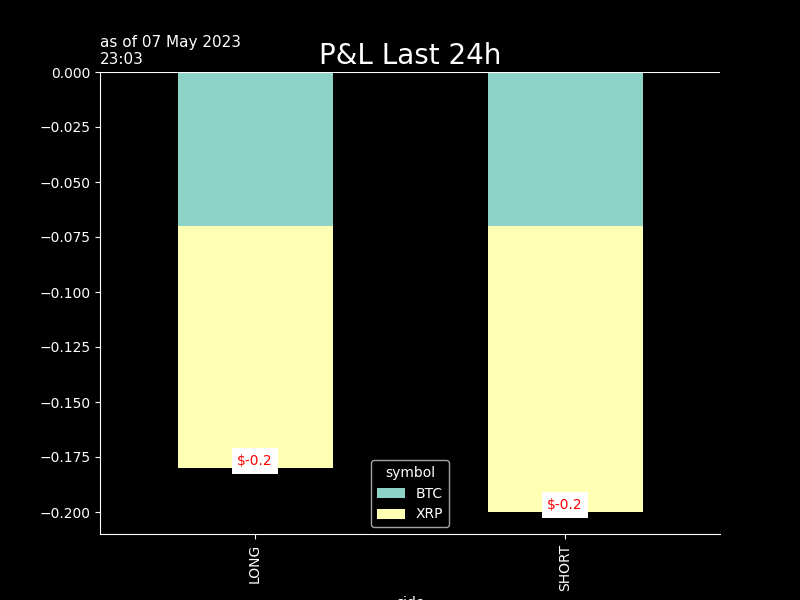
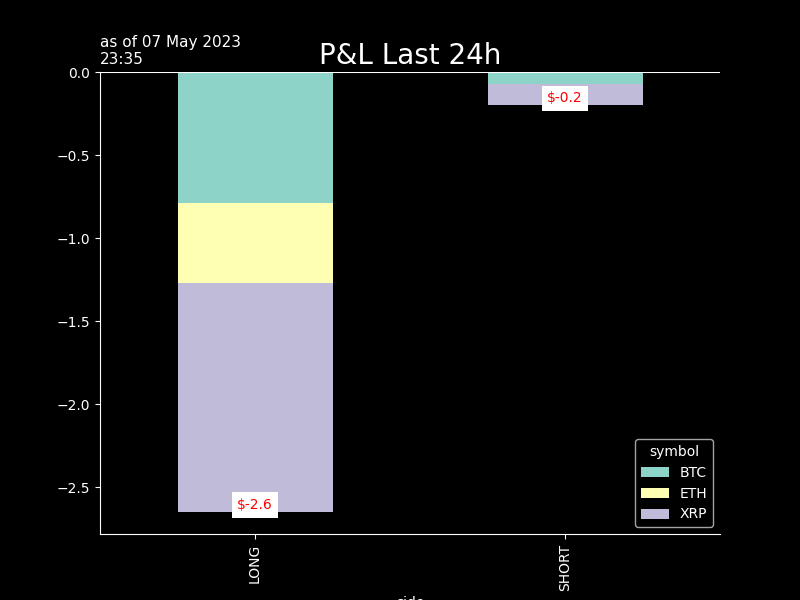
seb_commit

diff --git a/crypto/graphs/bt_trades_book.htmltrade_trades_book.html b/crypto/graphs/bt_trades_book.htmltrade_trades_book.html
@@ -37,55 +37,55 @@
   </thead>
   <tbody>
     <tr>
-      <th>BTCUSDT</th>
-      <td>28922.1000</td>
-      <td>2023-05-07 18:35:49</td>
-      <td>0.005</td>
-      <td>$144.6</td>
+      <th>ETHUSDT</th>
+      <td>1908.4200</td>
+      <td>2023-05-07 22:33:47</td>
+      <td>-0.076</td>
+      <td>$-145.0</td>
       <td>$0.03</td>
       <td>2.0</td>
-      <td>0.0</td>
-      <td>28937.25000</td>
-      <td>2023-05-07 19:33</td>
-      <td>0.1</td>
-      <td>6.0</td>
-      <td>28916.</td>
+      <td>-0.5</td>
+      <td>1909.91500</td>
+      <td>2023-05-07 23:31</td>
+      <td>-0.1</td>
+      <td>-8.0</td>
+      <td>1909.54</td>
+      <td>-0.1</td>
+      <td>-6.0</td>
+    </tr>
+    <tr>
+      <th>BTCUSDT</th>
+      <td>28777.0000</td>
+      <td>2023-05-07 22:35:13</td>
+      <td>-0.005</td>
+      <td>$-143.9</td>
+      <td>$0.03</td>
+      <td>2.0</td>
+      <td>-0.7</td>
+      <td>28782.25000</td>
+      <td>2023-05-07 23:31</td>
       <td>-0.0</td>
       <td>-2.0</td>
+      <td>28779.8</td>
+      <td>-0.0</td>
+      <td>-1.0</td>
     </tr>
     <tr>
       <th>XRPUSDT</th>
-      <td>0.4576</td>
-      <td>2023-05-07 18:35:48</td>
-      <td>316.300</td>
-      <td>$144.7</td>
+      <td>0.4536</td>
+      <td>2023-05-07 22:33:50</td>
+      <td>-316.300</td>
+      <td>$-143.5</td>
       <td>$0.03</td>
       <td>2.0</td>
-      <td>0.0</td>
-      <td>0.45775</td>
-      <td>2023-05-07 19:33</td>
-      <td>0.1</td>
-      <td>3.0</td>
-      <td>.4575</td>
-      <td>-0.0</td>
-      <td>-2.0</td>
-    </tr>
-    <tr>
-      <th>ETHUSDT</th>
-      <td>1914.7600</td>
-      <td>2023-05-07 18:35:49</td>
-      <td>0.076</td>
-      <td>$145.5</td>
-      <td>$0.03</td>
-      <td>2.0</td>
-      <td>0.0</td>
-      <td>1915.52500</td>
-      <td>2023-05-07 19:33</td>
-      <td>0.1</td>
-      <td>4.0</td>
-      <td>1914.5</td>
-      <td>-0.0</td>
-      <td>-1.0</td>
+      <td>-1.3</td>
+      <td>0.45375</td>
+      <td>2023-05-07 23:31</td>
+      <td>-0.1</td>
+      <td>-3.0</td>
+      <td>.4538</td>
+      <td>-0.1</td>
+      <td>-4.0</td>
     </tr>
   </tbody>
 </table>

diff --git a/crypto/graphs/bt_trades_pnlD_recap.htmltrade_trades_pnlD_recap.html b/crypto/graphs/bt_trades_pnlD_recap.htmltrade_trades_pnlD_recap.html
@@ -1,7 +1,7 @@
 <table border="1" class="dataframe">
   <thead>
     <tr style="text-align: right;">
-      <th>07 May 19:35</th>
+      <th>07 May 23:35</th>
       <th>realizedPnl</th>
       <th>PnLvsArrival</th>
       <th>PnLvsLast</th>
@@ -10,21 +10,21 @@
   <tbody>
     <tr>
       <th>in$</th>
-      <td>0.0</td>
-      <td>0.2</td>
-      <td>-0.1</td>
+      <td>-2.5</td>
+      <td>-0.2</td>
+      <td>-0.2</td>
     </tr>
     <tr>
-      <th>in bp 434 traded</th>
-      <td>0 bp</td>
-      <td>4 bp</td>
-      <td>-2 bp</td>
+      <th>in bp 432 traded</th>
+      <td>-57 bp</td>
+      <td>-4 bp</td>
+      <td>-4 bp</td>
     </tr>
     <tr>
-      <th>in bp 289 AUMs</th>
-      <td>0 bp</td>
-      <td>7 bp</td>
-      <td>-3 bp</td>
+      <th>in bp 287 AUMs</th>
+      <td>-86 bp</td>
+      <td>-7 bp</td>
+      <td>-6 bp</td>
     </tr>
   </tbody>
 </table>

diff --git a/crypto/graphs/bt_trades_recap.htmltrade_trades_recap.html b/crypto/graphs/bt_trades_recap.htmltrade_trades_recap.html
@@ -9,32 +9,32 @@
   <tbody>
     <tr>
       <th>as of</th>
-      <td>07May 18:35&gt;&gt;18:35</td>
+      <td>07May 22:33&gt;&gt;22:35</td>
       <td>#trades: 3</td>
     </tr>
     <tr>
       <th>trade net</th>
-      <td>+435.0</td>
-      <td>+150.2%</td>
+      <td>-432.0</td>
+      <td>-150.4%</td>
     </tr>
     <tr>
       <th>trade gross</th>
-      <td>+435.0</td>
-      <td>+150.2%</td>
+      <td>+432.0</td>
+      <td>+150.4%</td>
     </tr>
     <tr>
       <th>BUY</th>
-      <td>+435.0</td>
-      <td>+150.2%</td>
-    </tr>
-    <tr>
-      <th>SELL</th>
       <td>+0.0</td>
       <td>+0.0%</td>
     </tr>
     <tr>
+      <th>SELL</th>
+      <td>-432.0</td>
+      <td>-150.4%</td>
+    </tr>
+    <tr>
       <th>fees</th>
-      <td>$ 0.087</td>
+      <td>$ 0.086</td>
       <td>2.0bp</td>
     </tr>
   </tbody>
